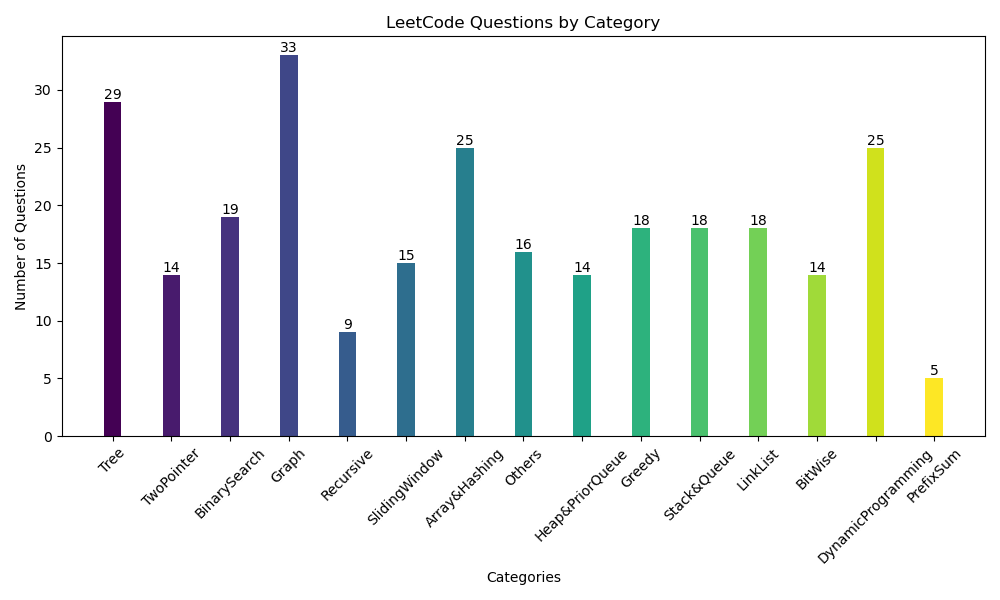
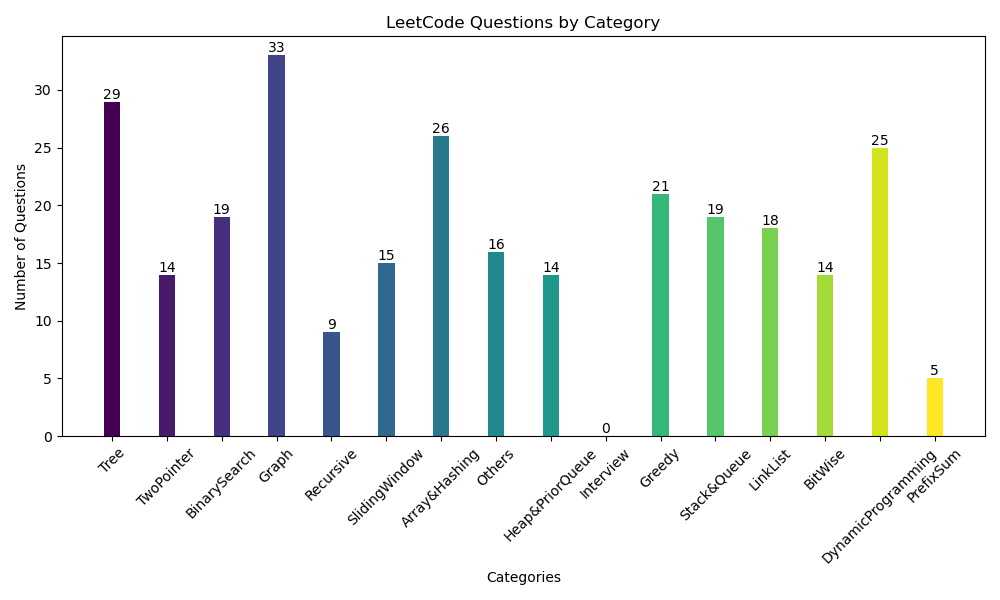
daily pratices

diff --git a/Stack&Queue/581. Shortest Unsorted Continuous Subarray.cpp b/Stack&Queue/581. Shortest Unsorted Continuous Subarray.cpp
@@ -1,0 +1,43 @@
+/*
+    1. 搞懂題目: 題目的意思在於能否找到最小的subarray,
+   讓我們sort這個subarray就可以sorting整個array
+
+    2. 作法
+        1. Brutal force: 每個subarray 都去check 是否是acending order,
+   然後找最小的subarry, time complexity O(n^3)
+
+        3. monotonic stack正確做法, 左到右acending check, 右到左descending
+   check, right - left 為answer
+
+        4, two pointer作法 time O(n), space O(1)
+
+
+*/
+class Solution {
+  public:
+	int findUnsortedSubarray(vector<int> &nums) {
+		int n = nums.size();
+		stack<int> ascend_ms;
+		stack<int> descend_ms;
+		int right = 0;
+		int left = n - 1;
+		for (int i = 0; i < n; ++i) {
+			while (!ascend_ms.empty() && nums[ascend_ms.top()] > nums[i]) {
+				left = min(ascend_ms.top(), left);
+				ascend_ms.pop();
+			}
+			ascend_ms.push(i);
+		}
+		if (left == n - 1)
+			return 0; // already sort
+
+		for (int i = n - 1; i >= 0; --i) {
+			while (!descend_ms.empty() && nums[descend_ms.top()] < nums[i]) {
+				right = max(descend_ms.top(), right);
+				descend_ms.pop();
+			}
+			descend_ms.push(i);
+		}
+		return right - left + 1;
+	}
+};

diff --git a/Greedy/2294. Partition Array Such That Maximum Difference Is K.cpp b/Greedy/2294. Partition Array Such That Maximum Difference Is K.cpp
@@ -1,0 +1,27 @@
+// proficient
+/*
+    question is divide the subseqence, and each num[i] is used once exactly
+    our target: find minimum number of subsequence need for the max element -
+   min element <= k
+
+    sol.2 greedy, add more to subsequence is better, O(n), space O(1)
+*/
+class Solution {
+  public:
+	int partitionArray(vector<int> &nums, int k) {
+		sort(nums.begin(), nums.end());
+		int num_subseq = 0;
+		int min_val = nums[0]; // the is to record the minimum value in current
+		                       // subsequence
+		for (int i = 1; i < nums.size(); ++i) {
+			// seperate the subsequence
+			if (nums[i] - min_val > k) {
+				++num_subseq;
+				min_val = nums[i];
+			}
+		}
+		// we still need to add last subsequence
+		++num_subseq;
+		return num_subseq;
+	}
+};

diff --git a/Array&Hashing/3349. Adjacent Increasing Subarrays Detection I.cpp b/Array&Hashing/3349. Adjacent Increasing Subarrays Detection I.cpp
@@ -1,0 +1,30 @@
+/*
+    acending 直到不滿足 nums[i] > nums[i - 1], subarray length是否 >= k
+    如果沒有 num_subarray必須歸零, 因為題目說必須adjacent
+*/
+class Solution {
+  public:
+	bool hasIncreasingSubarrays(vector<int> &nums, int k) {
+		int l = 0;
+		int r = 1;
+		int num_subarr = 0;
+		for (r = 1; r < nums.size(); ++r) {
+			if (nums[r] <= nums[r - 1]) {
+				// if this subarry length < k, we reset the num subarry
+				if (r - l < k)
+					num_subarr = 0;
+				else {
+					++num_subarr;
+				}
+				l = r;
+			}
+			// if consecutive subarr or subarr is longer that 2k
+			if (num_subarr == 2 || r - l + 1 >= 2 * k)
+				return true;
+		}
+		// last subarray need to be check
+		if (r - l >= k)
+			++num_subarr;
+		return num_subarr == 2;
+	}
+};

diff --git a/update_readme.py b/update_readme.py
@@ -5,7 +5,7 @@ from datetime import datetime
 import git
 from collections import defaultdict
 
-exclude_folder = ["WeekContest", "BasicC++"]
+exclude_folder = ["WeekContest", "BasicC_C++"]
 
 
 def get_status(file_path):

diff --git a/README.md b/README.md
@@ -1,8 +1,8 @@
 # LeetCode Problems
 
 ❌  can't resolve without solution: 31
-📝  can't resolve without hint: 194
-✅  resolve by self: 47
+📝  can't resolve without hint: 198
+✅  resolve by self: 48
 ## Tree
 - ❌ 105. Construct Binary Tree from Preorder and Inorder Traversal
 - 📝 PrefixTree
@@ -139,6 +139,7 @@
 - 📝 designHashset
 - 📝 concateArr
 - 📝 longCommonStr
+- 📝 3349. Adjacent Increasing Subarrays Detection I
 - 📝 2131. Longest Palindrome by Concatenating Two Letter Words
 - 📝 CountGoodTriple
 - 📝 ValidAnagram
@@ -195,10 +196,13 @@
 - ✅ 2342. Max Sum of a Pair With Equal Sum of Digits
 - ✅ KthLargestElement 
 
+## Interview
+
 ## Greedy
 - ❌ MergeTripletsFormTarget
 - ❌ 3577. Count the Number of Computer Unlocking Permutations
 - 📝 2434. Using a Robot to Print the Lexicographically Smallest String
+- 📝 1791. Find Center of Star Graph
 - 📝 135. Candy
 - 📝 jumpGame
 - 📝 763. Partition Labels
@@ -208,16 +212,19 @@
 - 📝 781.RabbitForest
 - 📝 860.LemonadeChange
 - 📝 jumpGame2
+- 📝 2966. Divide Array Into Arrays With Max Difference
 - 📝 2918. Minimum Equal Sum of Two Arrays After Replacing Zeros
 - 📝 maxSubarray
 - 📝 846.HandofStraights
 - ✅ 3170. Lexicographically Minimum String After Removing Stars
 - ✅ 658. Find K Closest Elements
 - ✅ 2566. Maximum Difference by Remapping a Digit
+- ✅ 2294. Partition Array Such That Maximum Difference Is K
 
 ## Stack&Queue
 - ❌ 1425. Constrained Subsequence Sum
 - ❌ largestRectangleHistogram
+- 📝 581. Shortest Unsorted Continuous Subarray
 - 📝 dailyTemperature
 - 📝 223.implementQueuewithStack
 - 📝 1438. Longest Continuous Subarray With Absolute Diff Less Than or Equal to Limit
@@ -306,7 +313,7 @@
 - 📝 2574. Left and Right Sum Differences
 
 ## Statistics
-Current total questions: 269
+Current total questions: 274
 
 <img src="chart.png" alt="questions bar chart" width="500">
 
